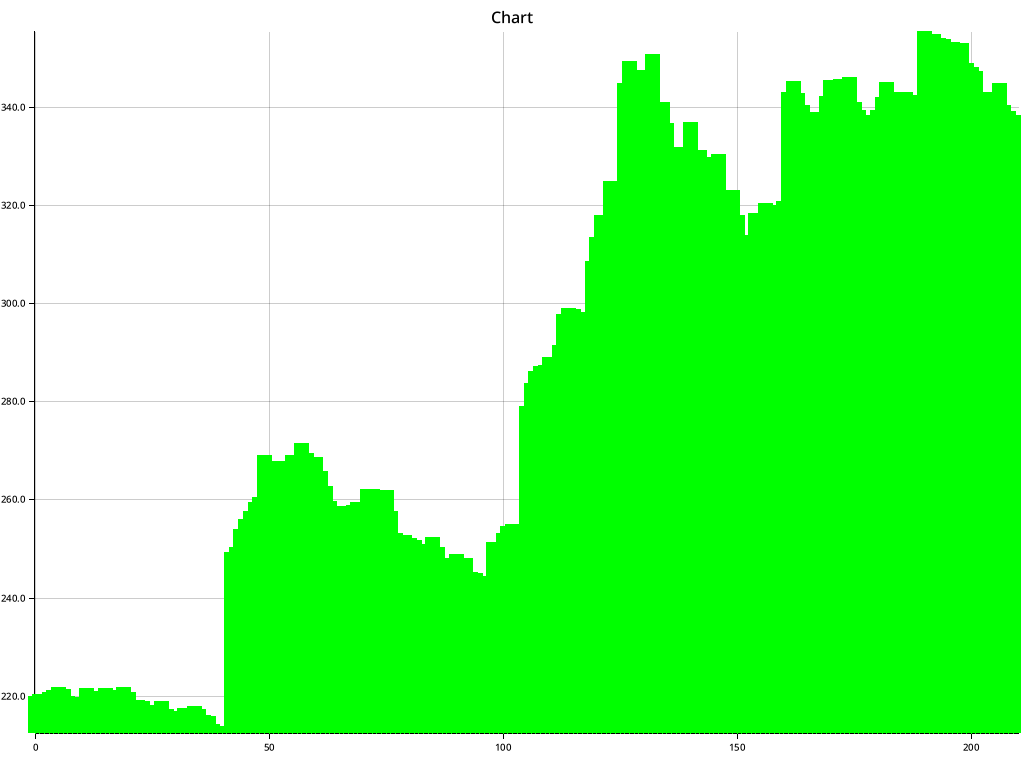
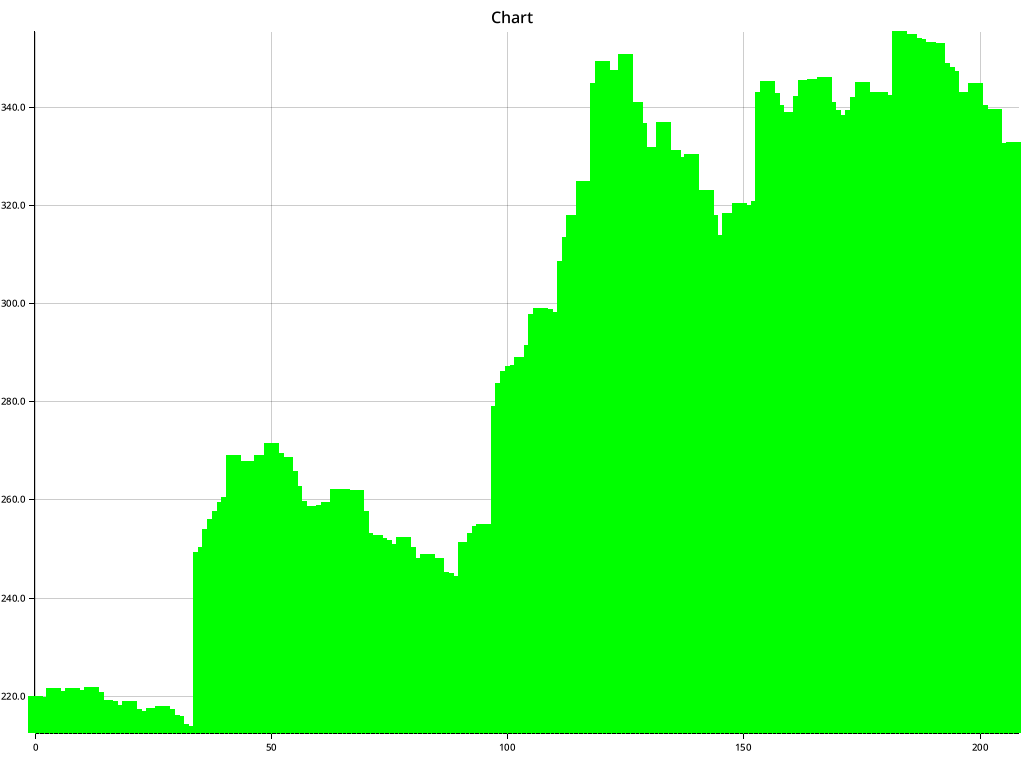
pretty candle and rsi charts

Changed region(s): [[0.0625, 0.0312, 1.0, 0.9375], [0.9375, 0.9688, 0.9688, 1.0], [0.4688, 0.9688, 0.5, 1.0]]

diff --git a/src/utils.rs b/src/utils.rs
@@ -1,9 +1,12 @@
-use ibapi::market_data::historical;
+use chrono::{DateTime, Local, NaiveDateTime, TimeZone};
+use ibapi::market_data::{historical, realtime};
 use plotters::{
     coord::types::RangedCoordf32,
     prelude::{BitMapBackend, CandleStick, IntoDrawingArea},
-    style::{Color, GREEN, RED, WHITE},
+    series::{AreaSeries, LineSeries},
+    style::{Color, BLUE, GREEN, RED, WHITE},
 };
+use time::OffsetDateTime;
 
 use crate::{constants::rsi::MOVING_AVG_DAYS, types::Data};
 
@@ -44,11 +47,11 @@ pub fn get_rsi_values(data: &Data) -> Data {
 }
 
 /// Calcualtes the exponential moving average
-/// 
+///
 /// # Arguments
-/// 
+///
 /// * `alpha` - The exponential weight to apply to the previous average. For example, 0.18 adds 18% of the previous average
-/// 
+///
 pub fn ema(data: &Data, alpha: f64) -> Data {
     let mut averages = Vec::new();
 
@@ -101,8 +104,14 @@ pub fn chart(data: &Data) -> Result<(), Box<dyn std::error::Error>> {
     let root = BitMapBackend::new("charts/chart.png", (1024, 768)).into_drawing_area();
     root.fill(&WHITE)?;
 
-    let y_min = *data.iter().min_by(|a, b| a.partial_cmp(b).unwrap()).unwrap() as f32;
-    let y_max = *data.iter().max_by(|a, b| a.partial_cmp(b).unwrap()).unwrap() as f32;
+    let y_min = *data
+        .iter()
+        .min_by(|a, b| a.partial_cmp(b).unwrap())
+        .unwrap() as f32;
+    let y_max = *data
+        .iter()
+        .max_by(|a, b| a.partial_cmp(b).unwrap())
+        .unwrap() as f32;
 
     let mut chart = plotters::chart::ChartBuilder::on(&root)
         .caption("Chart", ("sans-serif", 20))
@@ -115,6 +124,71 @@ pub fn chart(data: &Data) -> Result<(), Box<dyn std::error::Error>> {
 
     chart.draw_series(data.iter().enumerate().map(|(index, x)| {
         CandleStick::new(index as u32, 0., 0., 0., *x as f32, GREEN.filled(), RED, 15)
+    }))?;
+
+    root.present()
+        .expect("unable to write chart to file, perhaps there is no directory");
+
+    Ok(())
+}
+
+pub fn candle_chart(bars: &[historical::Bar]) -> Result<(), Box<dyn std::error::Error>> {
+    let dimensions = (1024, 768);
+    let root = BitMapBackend::new("charts/candle.png", dimensions).into_drawing_area();
+    root.fill(&WHITE)?;
+
+    let y_min = bars
+        .iter()
+        .map(|bar| bar.close)
+        .min_by(|a, b| a.partial_cmp(b).unwrap())
+        .unwrap() as f32
+        * 0.9;
+    let y_max = bars
+        .iter()
+        .map(|bar| bar.close)
+        .max_by(|a, b| a.partial_cmp(b).unwrap())
+        .unwrap() as f32
+        * 1.1;
+
+    let dates = bars
+        .iter()
+        .map(|bar| bar.date)
+        .collect::<Vec<OffsetDateTime>>();
+
+    let mut chrono_dates = Vec::new();
+
+    for date in dates {
+        chrono_dates.push({
+            let x = DateTime::from_timestamp_nanos(date.unix_timestamp_nanos() as i64);
+            Local.from_utc_datetime(&x.naive_local()).time()
+        });
+    }
+    let chrono_range = chrono_dates[0]..chrono_dates[chrono_dates.len() - 1];
+
+    let mut chart = plotters::chart::ChartBuilder::on(&root)
+        .caption("Candle Chart", ("sans-serif", 20))
+        .margin(5)
+        .x_label_area_size(30)
+        .y_label_area_size(30)
+        .build_cartesian_2d(0..bars.len() as u32, y_min..y_max)?;
+
+    chart.configure_mesh().light_line_style(WHITE).draw()?;
+
+    let mut draw = chart.draw_series(bars.iter().enumerate().map(|(index, bar)| {
+        /* let local = Local.from_utc_datetime(&DateTime::from_timestamp_nanos(bar.date.unix_timestamp_nanos() as i64).naive_local());
+        let chrono_date = local.timestamp();
+        let z = local.time();
+        println!("time: {z:?}"); */
+        CandleStick::new(
+            index as u32,
+            bar.open as f32,
+            bar.high as f32,
+            bar.low as f32,
+            bar.close as f32,
+            GREEN.filled(),
+            RED.filled(),
+            dimensions.0 / bars.len() as u32,
+        )
     }))?;
 
     root.present()
@@ -136,9 +210,13 @@ pub fn rsi_chart(data: &Data) -> Result<(), Box<dyn std::error::Error>> {
 
     chart.configure_mesh().light_line_style(WHITE).draw()?;
 
-    chart.draw_series(data.iter().enumerate().map(|(index, x)| {
-        CandleStick::new(index as u32, *x as f32 - 10., 0., 0., *x as f32, GREEN.filled(), RED, 15)
-    }))?;
+    chart.draw_series(AreaSeries::new(
+        data.iter()
+            .enumerate()
+            .map(|(index, value)| (index as u32, *value as f32)),
+            0.0,
+            BLUE.mix(0.2),
+    ).border_style(BLUE))?;
 
     root.present()
         .expect("unable to write chart to file, perhaps there is no directory");

diff --git a/src/main.rs b/src/main.rs
@@ -3,7 +3,7 @@ use ibapi::{
     accounts::{AccountSummaries, AccountSummaryTags}, client::Subscription, contracts::Contract, market_data::{historical::{BarSize, HistoricalData, ToDuration, WhatToShow}, realtime}, orders::{order_builder, Action, PlaceOrder}, Client
 };
 use time::{macros::datetime, OffsetDateTime};
-use utils::{chart, convert_historical, get_rsi_values, rsi_chart};
+use utils::{candle_chart, chart, convert_historical, get_rsi_values, rsi_chart};
 
 mod constants;
 mod utils;
@@ -28,6 +28,8 @@ fn main() {
 
     chart(&data).unwrap();
     rsi_chart(&rsi_values).unwrap();
+
+    candle_chart(&historical_data.bars).unwrap();
 }
 
 fn account_info(client: &Client) {
